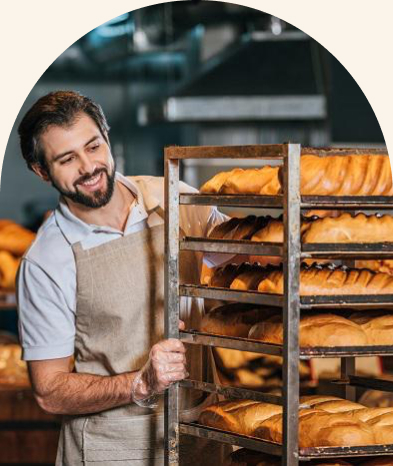
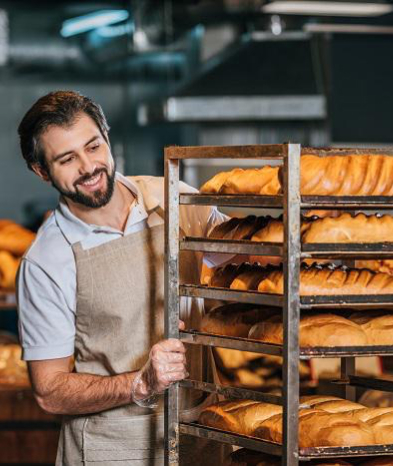
add styles + images

Changed region(s): [[0.5496, 0.0, 1.0, 0.3906], [0.0, 0.0, 0.458, 0.3906]]

diff --git a/bakery-frontend/index.html b/bakery-frontend/index.html
@@ -15,21 +15,20 @@
 
 <header>
     <div class="container">
-        <div class="header-container">
-            <nav class="header-nav">
-                <a href="/">
-                    <img src="./images/logo.svg" alt="Логотип"/>
-                </a>
+        <nav>
+            <a href="/">
+                <img src="./images/logo.svg" alt="Логотип"/>
+            </a>
 
-                <ul class="header-menu">
-                    <li><a class="header-link" href="#traditions-section"> Наші традиції </a></li>
-                    <li><a class="header-link" href="#chefs-section"> Шеф-кухарі </a></li>
-                    <li><a class="header-link" href="#formats-section"> Формати </a></li>
-                    <li><a class="header-link" href="#contacts-section"> Контакти</a></li>
-                </ul>
-            </nav>
-            <button class="button" type="button">Замовити дзвінок</button>
-        </div>
+            <ul>
+                <li><a class="header-link" href="#traditions-section"> Наші традиції </a></li>
+                <li><a class="header-link" href="#chefs-section"> Шеф-кухарі </a></li>
+                <li><a class="header-link" href="#formats-section"> Формати </a></li>
+                <li><a class="header-link" href="#contacts-section"> Контакти</a></li>
+            </ul>
+        </nav>
+
+        <button class="button" type="button">Замовити дзвінок</button>
     </div>
 </header>
 
@@ -41,7 +40,7 @@
         </div>
     </section>
 
-    <section class="advantages-section">
+    <section>
         <div class="container">
             <h2 class="hidden">Nashi perevagi</h2>
             <ul class="advantages-list">
@@ -54,40 +53,30 @@
 
     <section class="traditions-section section" id="traditions-section">
         <div class="container">
-            <div class="traditions-container">
-                <div class="traditions-content">
-                    <h2 class="traditions-title section-title">Новий формат традицій</h2>
+            <h2 class="traditions-title section-title">Новий формат традицій</h2>
 
-                    <p class="traditions-text">
-                        <span class="brand-uppercase">shop bakery</span> — це пекарня, яка взяла все найкраще, і
-                        зберегла
-                        смак
-                        традиційної випічки та
-                        натуральність
-                        інгредієнтів.
-                    </p>
-                    <p class="traditions-text limited">
-                        Ми працюємо як найвідоміші мережі—
-                        <span class="brand">5 хвилин і замовлення готове</span>.
-                        А ще у наших пекарень стильний дизайн
-                        та висока якість обслуговування!
-                    </p>
-                </div>
-                <div class="traditions-image">
-                    <img src="./images/baker-man.jpg" alt="Чоловік-пекар дивиться на батони"/>
-                </div>
-            </div>
+            <p class="traditions-text">
+                <span class="brand-uppercase">shop bakery</span> — це пекарня, яка взяла все найкраще, і зберегла смак
+                традиційної випічки та
+                натуральність
+                інгредієнтів.
+            </p>
+            <p class="traditions-text">
+                Ми працюємо як найвідоміші мережі— <span class="brand">5 хвилин і замовлення готове</span>. А ще у наших
+                пекарень
+                стильний дизайн та
+                висока якість обслуговування!
+            </p>
+            <img src="./images/baker-man.jpg" alt="Чоловік-пекар дивиться на батони"/>
         </div>
     </section>
 
     <section class="section" id="chefs-section">
         <div class="container">
-            <h2 class="chefs-title section-title centered">
-                Наші найкращі <span class="accent">шеф - кухарі</span></h2>
+            <h2 class="chefs-title section-title">Наші <span class="accent">шеф кухарі</span></h2>
             <ul>
                 <li>
                     <article>
-                        <img class="chef-photo" src="/images/nastya-chef.jpg" alt="nch">
                         <h3 class="chef-title">Настя</h3>
                         <p>Привіт, я Настя!
                         </p>
@@ -100,7 +89,6 @@
                 </li>
                 <li>
                     <article>
-                        <img class="chef-photo" src="/images/vlad-chef.jpg" alt="vldch">
                         <h3 class="chef-title">Влад</h3>
                         <p>Привіт, я Влад!</p>
 
@@ -119,10 +107,10 @@
 
     <section class="section" id="formats-section">
         <div class="container">
-            <h2 class="formats-title section-title centered">Формат</h2>
-            <ul class="formats-list">
-                <li class="formats-item">
-                    <article class="format-card">
+            <h2 class="formats-title section-title">Формат</h2>
+            <ul>
+                <li>
+                    <article>
                         <h3 class="format-title" lang="en">Walrus</h3>
                         <div class="format-text">
                             <p>Площа: до 120 м2</p>
@@ -133,8 +121,8 @@
                         </div>
                     </article>
                 </li>
-                <li class="formats-item">
-                    <article class="format-card">
+                <li>
+                    <article>
                         <h3 class="format-title" lang="en">Horseshoe</h3>
 
                         <div class="format-text">
@@ -147,8 +135,8 @@
 
                     </article>
                 </li>
-                <li class="formats-item">
-                    <article class="format-card">
+                <li>
+                    <article>
                         <h3 class="format-title" lang="en">Handlebar</h3>
 
                         <div class="format-text">
@@ -181,7 +169,7 @@
 
 </main>
 
-<footer class="footer">
+<footer>
     <div class="container">
         <nav>
             <a href="#">

diff --git a/bakery-frontend/css/styles.css b/bakery-frontend/css/styles.css
@@ -32,12 +32,10 @@
 
 
 :root {
+    --color-brand-light: #819B57;
+    --color-brand-dark: #465929;
     --color-primary-light: #FAF4EA;
     --color-primary-dark: #31261A;
-    --color-secondary-dark: #A28268;
-    --color-brand-normal: #819B57;
-    --color-brand-light: #cfcfbc;
-    --color-brand-dark: #465929;
 }
 
 /* Base */
@@ -48,7 +46,6 @@
 
 body {
     color: var(--color-primary-dark);
-    background-color: var(--color-primary-light);
     font-family: 'Poppins', sans-serif;
     font-size: 18px;
     font-weight: 400;
@@ -66,8 +63,6 @@ address {
 
 ul {
     list-style-type: none;
-    padding: 0;
-    margin: 0;
 }
 
 .hidden {
@@ -90,32 +85,6 @@ ul {
     padding: 0 24px;
 }
 
-/*Header*/
-.header-container {
-    display: flex;
-    align-items: center;
-    gap: 40px;
-
-}
-
-.header-nav {
-    display: flex;
-    align-items: center;
-    flex-grow: 1;
-    gap: 40px;
-}
-
-.header-menu {
-    display: flex;
-    gap: 64px;
-    flex-grow: 1;
-    justify-content: center;
-}
-
-.header-item {
-    margin-right: 64px;
-}
-
 /* Header-link */
 .header-link {
     color: var(--color-primary-light);
@@ -125,15 +94,16 @@ ul {
 }
 
 .header-link:hover {
-    color: var(--color-brand-normal);
+    color: var(--color-brand-light);
+    font-weight: 600;
 }
 
 /* Button */
 .button {
     color: var(--color-primary-light);
-    background-color: var(--color-brand-normal);
+    background-color: var(--color-brand-light);
     border-radius: 8px;
-    border: 2px solid var(--color-brand-normal);
+    border: 2px solid var(--color-brand-light);
     cursor: pointer;
     font-weight: 600;
     padding: 16px 32px;
@@ -148,10 +118,6 @@ ul {
 /* Hero-section */
 .hero-section {
     padding: 272px 0;
-    background-image: url("../images/hero-section-background.jpg");
-    background-repeat: no-repeat;
-    background-position: center top;
-    background-size: cover;
 }
 
 .hero-title {
@@ -163,23 +129,16 @@ ul {
 }
 
 .hero-title .accent {
-    color: var(--color-brand-normal);
+    color: var(--color-brand-light);
 }
 
 /* Advantages */
-.advantages-section {
-    padding: 16px 0;
-    background-color: var(--color-brand-normal);
-}
-
 .advantages-list {
-    display: flex;
-    gap: 40px;
-    justify-content: space-between;
+    color: var(--color-primary-light);
+    background-color: var(--color-brand-light);
 }
 
 .advantages-item {
-    color: var(--color-primary-light);
     font-weight: 300;
     font-size: 20px;
 
@@ -191,10 +150,6 @@ ul {
     line-height: 1.3;
 }
 
-.section-title.centered {
-    text-align: center;
-}
-
 .section-title .accent {
     color: var(--color-brand-dark);
 }
@@ -204,54 +159,24 @@ ul {
     padding-top: 96px;
 }
 
-.traditions-container {
-    display: flex;
-    gap: 40px;
-    justify-content: space-between;
-}
-
-.traditions-content {
-    max-width: 710px;
-}
-
 .traditions-title {
     margin-bottom: 42px;
 }
 
 .traditions-text .brand {
-    color: var(--color-brand-normal);
+    color: var(--color-brand-light);
     font-weight: 600;
 }
 
 .traditions-text .brand-uppercase {
-    color: var(--color-brand-normal);
+    color: var(--color-brand-light);
     text-transform: uppercase;
     font-weight: 600;
 }
 
-.traditions-text.limited {
-    max-width: 340px;
-}
-
 /*chef-section*/
 .chefs-title {
-    max-width: 520px;
-    margin: 0 auto 80px;
-}
-
-.chef-photo {
-    border-radius: 4px 4px 4px 200px;
-    box-shadow: -16px 16px 0 0 var(--color-primary-light),
-    -16px 16px 0 2px var(--color-secondary-dark);
-}
-
-.chefs-title::before,
-.chefs-title:after {
-    display: block;
-    width: 352px;
-    border: 2px solid var(--color-brand-light);
-    content: '';
-
+    margin-bottom: 80px;
 }
 
 .chef-title {
@@ -261,29 +186,6 @@ ul {
 }
 
 /*formats-sections*/
-.formats-list {
-    display: flex;
-    gap: 20px;
-    flex-wrap: wrap;
-}
-
-.formats-item {
-    flex-basis: calc((100% - 40px) / 3);
-
-
-}
-
-.format-card {
-    height: 444px;
-    padding: 24px;
-    background-image: linear-gradient(
-            180deg,
-            rgba(49, 38, 26, 0.00) 55.21%,
-            rgba(49, 38, 26, 0.71) 72.92%, #31261A 100%);
-    border: 1px solid lightgray; /* remove */
-    border-radius: 16px;
-}
-
 .formats-title {
     margin-bottom: 80px;
 }
@@ -313,17 +215,9 @@ ul {
 }
 
 .adress-link:hover {
-    color: var(--color-brand-normal);
+    color: var(--color-brand-light);
 }
 
 .adress-copyright {
     font-size: 14px;
-}
-
-.footer {;
-    background-color: var(--color-primary-dark);
-    background-image: url("../images/footer-background.png");
-    background-repeat: no-repeat;
-    background-size: cover;
-    background-position: center;
 }

diff --git a/bakery-frontend/README.md b/bakery-frontend/README.md
@@ -1,0 +1,1 @@
+# bakery-frontend
